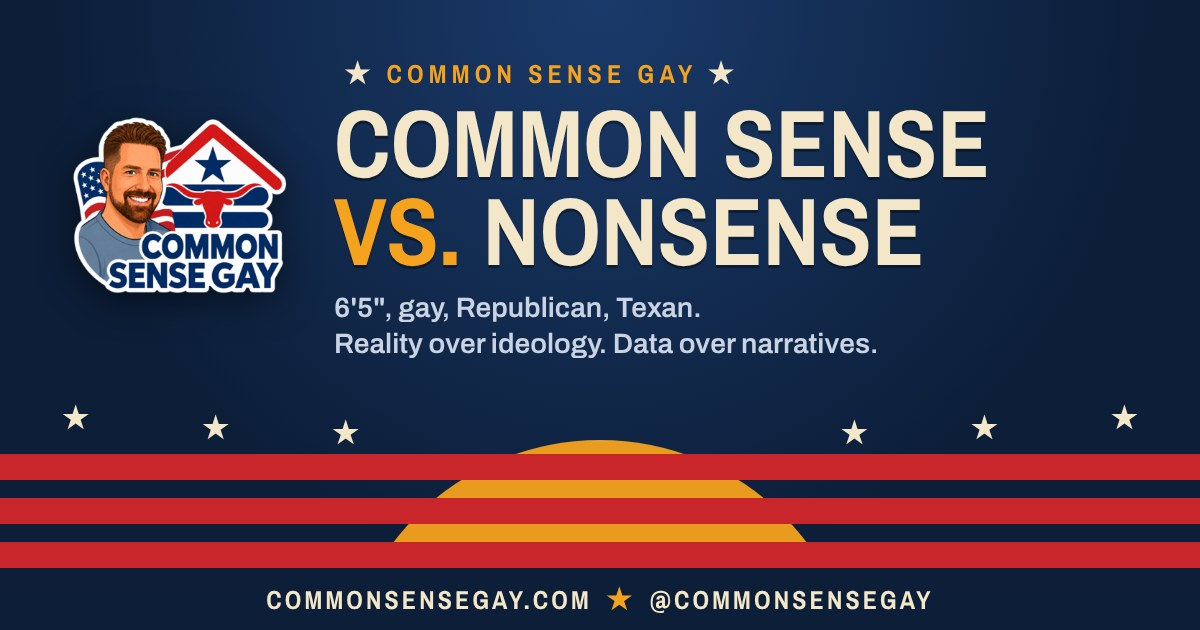
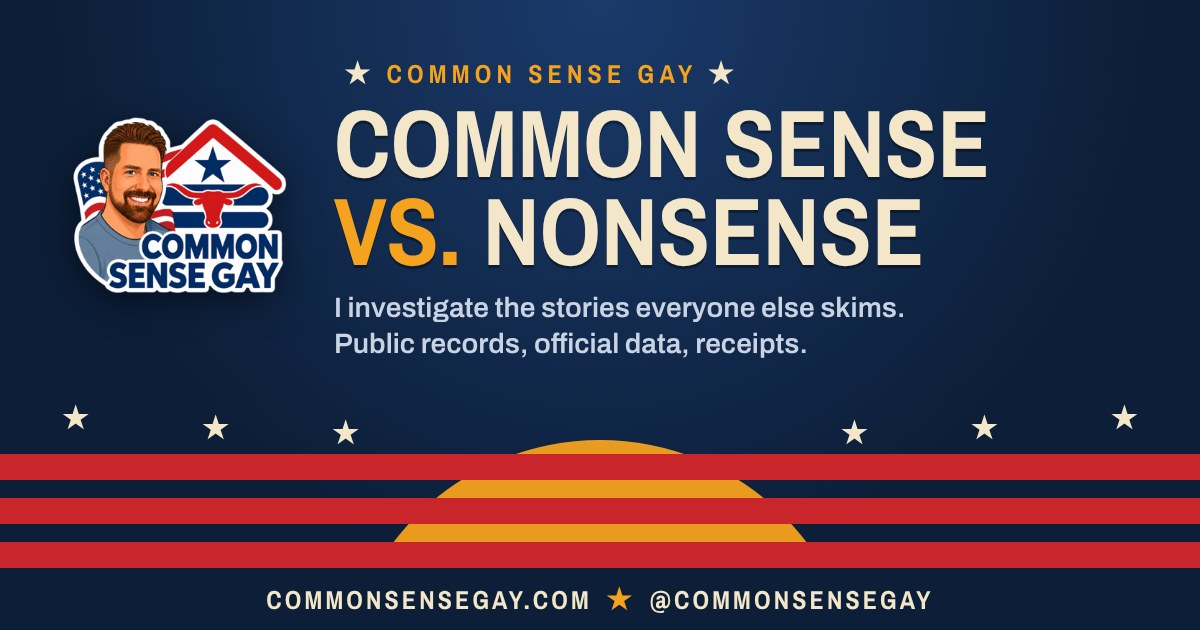
New hero line, make Facebook the main call to action
Claude-Session: https://claude.ai/code/session_016Bonii2K7GLpbddT3gMQBd

Changed region(s): [[0.2775, 0.4524, 0.7708, 0.573]]

diff --git a/index.html b/index.html
@@ -4,7 +4,7 @@
 <meta charset="utf-8">
 <meta name="viewport" content="width=device-width,initial-scale=1,viewport-fit=cover">
 <title>Common Sense Gay</title>
-<meta name="description" content="The Common Sense Gay: a 6'5&quot; gay Republican Texan reading the filings, pulling the data and telling you what the headlines left out.">
+<meta name="description" content="Common Sense Gay investigates the stories everyone else skims, with public records, official data and the receipts to back them up.">
 <link rel="canonical" href="https://commonsensegay.com/">
 <meta property="og:title" content="Common Sense Gay">
 <meta property="og:description" content="Reality over ideology. Data over narratives. Political commentary and investigations built on receipts, plus the live 2026 early vote tracker.">
@@ -151,6 +151,16 @@ h2{font-family:var(--display);font-weight:400;text-transform:uppercase;font-size
 .lcr p{margin:0;max-width:56ch;color:#d8dfeb}
 .lcr b{color:var(--cream);font-family:var(--narrow);font-size:22px;display:block;margin-bottom:4px}
 
+
+.fbfeat{display:grid;grid-template-columns:auto 1fr auto;gap:28px;align-items:center;padding:32px;margin-bottom:40px;background:linear-gradient(135deg,#132c52 0%,#0f2442 100%);border:3px solid var(--sun);border-radius:6px}
+.fbicon{width:84px;height:84px;border-radius:50%;background:var(--sun);color:var(--night);display:grid;place-items:center}
+.fbicon svg{width:44px;height:44px}
+.fbfeat h3{font-family:var(--display);font-weight:400;text-transform:uppercase;font-size:clamp(28px,3.4vw,40px);line-height:1;margin:0 0 10px;color:var(--cream)}
+.fbfeat p{margin:0;color:#d8dfeb;max-width:52ch}
+@media (max-width:760px){.fbfeat{grid-template-columns:1fr;padding:24px}.fbicon{width:64px;height:64px}.fbicon svg{width:34px;height:34px}}
+.also{font-family:var(--narrow);font-weight:600;font-size:17px;color:var(--mist);margin:0 0 12px}
+.paper .btn.fb{background:#1b4fa0;color:#fff}
+.paper .btn.fb:hover{background:#1f5bb8}
 /* sign-off */
 footer{background:var(--night);border-top:6px solid var(--red);padding:48px 0 56px}
 footer .wrap{display:flex;flex-wrap:wrap;justify-content:space-between;align-items:end;gap:24px}
@@ -176,11 +186,11 @@ footer small{color:#7d8ca5;font-size:14px}
   <div class="wrap">
     <div>
       <h1 id="hero-title">Common sense<span class="vs">versus</span>nonsense</h1>
-      <p class="lede"><strong>6'5", gay, Republican and Texan.</strong> I read the filings, pull the data and tell you what the headlines left out.</p>
+      <p class="lede"><strong>I investigate the stories everyone else skims.</strong> Public records, official data and the receipts to back it up.</p>
       <div class="ctas">
-        <a class="btn primary" href="https://www.tiktok.com/@commonsensegay" rel="noopener">
-          <svg viewBox="0 0 24 24" fill="currentColor" aria-hidden="true"><path d="M16.6 5.8A4.3 4.3 0 0 1 15.5 3h-3.1v12.4a2.6 2.6 0 1 1-2.6-2.6c.3 0 .5 0 .8.1V9.7a5.8 5.8 0 1 0 4.9 5.7V9.1a7.4 7.4 0 0 0 4.3 1.4V7.4a4.3 4.3 0 0 1-3.2-1.6z"/></svg>
-          Watch on TikTok</a>
+        <a class="btn primary" href="https://www.facebook.com/Commonsensegay/" rel="noopener">
+          <svg viewBox="0 0 24 24" fill="currentColor" aria-hidden="true"><path d="M14 8h3V4.2h-3c-2.8 0-4.4 1.8-4.4 4.6V11H7v3.7h2.6V22h3.8v-7.3h3l.5-3.7h-3.5V9.1c0-.7.3-1.1 1-1.1z"/></svg>
+          Follow on Facebook</a>
         <a class="btn ghost" href="/early-vote/">Open the early vote tracker</a>
       </div>
     </div>
@@ -218,7 +228,7 @@ footer small{color:#7d8ca5;font-size:14px}
           <li><span>Change since the previous pull</span><span id="ev-chg">0.1 pts toward Republicans</span></li>
         </ul>
         <p class="caveat">This counts who returned a ballot, by registration. It doesn't tell you how anyone voted. Early vote leans Democratic every cycle because mail voting does; the tracker compares it to the 2022 finish line.</p>
-        <a class="btn primary" href="/early-vote/">See every state</a>
+        <div class="ctas"><a class="btn primary" href="/early-vote/">See every state</a><a class="btn fb" href="https://www.facebook.com/Commonsensegay/" rel="noopener"><svg viewBox="0 0 24 24" fill="currentColor" aria-hidden="true"><path d="M14 8h3V4.2h-3c-2.8 0-4.4 1.8-4.4 4.6V11H7v3.7h2.6V22h3.8v-7.3h3l.5-3.7h-3.5V9.1c0-.7.3-1.1 1-1.1z"/></svg>Get the daily read on Facebook</a></div>
       </div>
       <div class="why">
         <h3>Why I built it</h3>
@@ -262,6 +272,15 @@ footer small{color:#7d8ca5;font-size:14px}
   <div class="wrap">
     <h2 id="follow-title">Follow along</h2>
     <p class="intro">Same handle everywhere: @commonsensegay.</p>
+    <div class="fbfeat">
+      <div class="fbicon"><svg viewBox="0 0 24 24" fill="currentColor" aria-hidden="true"><path d="M14 8h3V4.2h-3c-2.8 0-4.4 1.8-4.4 4.6V11H7v3.7h2.6V22h3.8v-7.3h3l.5-3.7h-3.5V9.1c0-.7.3-1.1 1-1.1z"/></svg></div>
+      <div>
+        <h3>Facebook is where the channel gets paid</h3>
+        <p>Follow, watch and share there. It's the single easiest way to keep the investigations coming, and it costs you nothing.</p>
+      </div>
+      <a class="btn primary" href="https://www.facebook.com/Commonsensegay/" rel="noopener">Follow on Facebook</a>
+    </div>
+    <p class="also">Also on</p>
     <div class="plats">
       <a class="plat" href="https://www.tiktok.com/@commonsensegay" rel="noopener">
         <svg viewBox="0 0 24 24" fill="currentColor" aria-hidden="true"><path d="M16.6 5.8A4.3 4.3 0 0 1 15.5 3h-3.1v12.4a2.6 2.6 0 1 1-2.6-2.6c.3 0 .5 0 .8.1V9.7a5.8 5.8 0 1 0 4.9 5.7V9.1a7.4 7.4 0 0 0 4.3 1.4V7.4a4.3 4.3 0 0 1-3.2-1.6z"/></svg>
@@ -272,9 +291,6 @@ footer small{color:#7d8ca5;font-size:14px}
       <a class="plat" href="https://www.youtube.com/@commonsensegay" rel="noopener">
         <svg viewBox="0 0 24 24" fill="currentColor" aria-hidden="true"><path d="M22 8.2a3 3 0 0 0-2.1-2.1C18 5.6 12 5.6 12 5.6s-6 0-7.9.5A3 3 0 0 0 2 8.2 31 31 0 0 0 1.6 12 31 31 0 0 0 2 15.8a3 3 0 0 0 2.1 2.1c1.9.5 7.9.5 7.9.5s6 0 7.9-.5a3 3 0 0 0 2.1-2.1 31 31 0 0 0 .4-3.8 31 31 0 0 0-.4-3.8zM10 15V9l5.2 3z"/></svg>
         <b>YouTube</b><span>Long-form investigations</span></a>
-      <a class="plat" href="https://www.facebook.com/Commonsensegay/" rel="noopener">
-        <svg viewBox="0 0 24 24" fill="currentColor" aria-hidden="true"><path d="M14 8h3V4.2h-3c-2.8 0-4.4 1.8-4.4 4.6V11H7v3.7h2.6V22h3.8v-7.3h3l.5-3.7h-3.5V9.1c0-.7.3-1.1 1-1.1z"/></svg>
-        <b>Facebook</b><span>Following here supports the channel</span></a>
       <a class="plat" href="https://x.com/commonsensegay" rel="noopener">
         <svg viewBox="0 0 24 24" fill="currentColor" aria-hidden="true"><path d="M17.8 3h3.1l-6.8 7.7L22 21h-6.2l-4.9-6.4L5.3 21H2.2l7.3-8.3L2 3h6.3l4.4 5.8zm-1.1 16.2h1.7L7.4 4.7H5.6z"/></svg>
         <b>X</b><span>Quick takes and threads</span></a>
